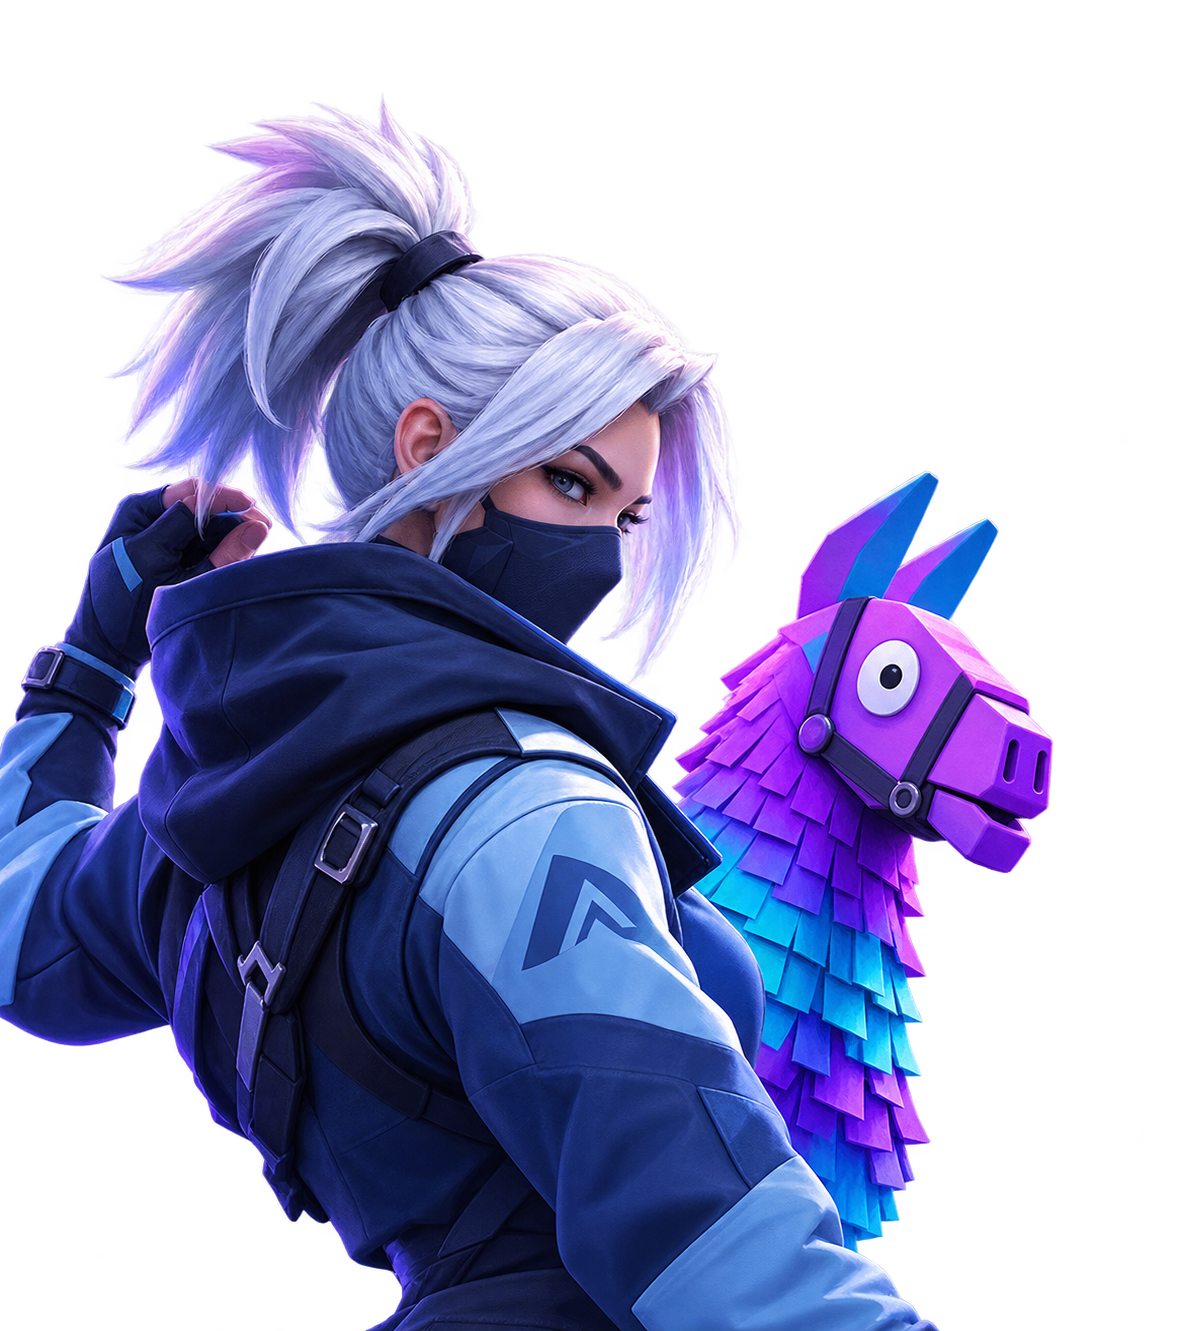
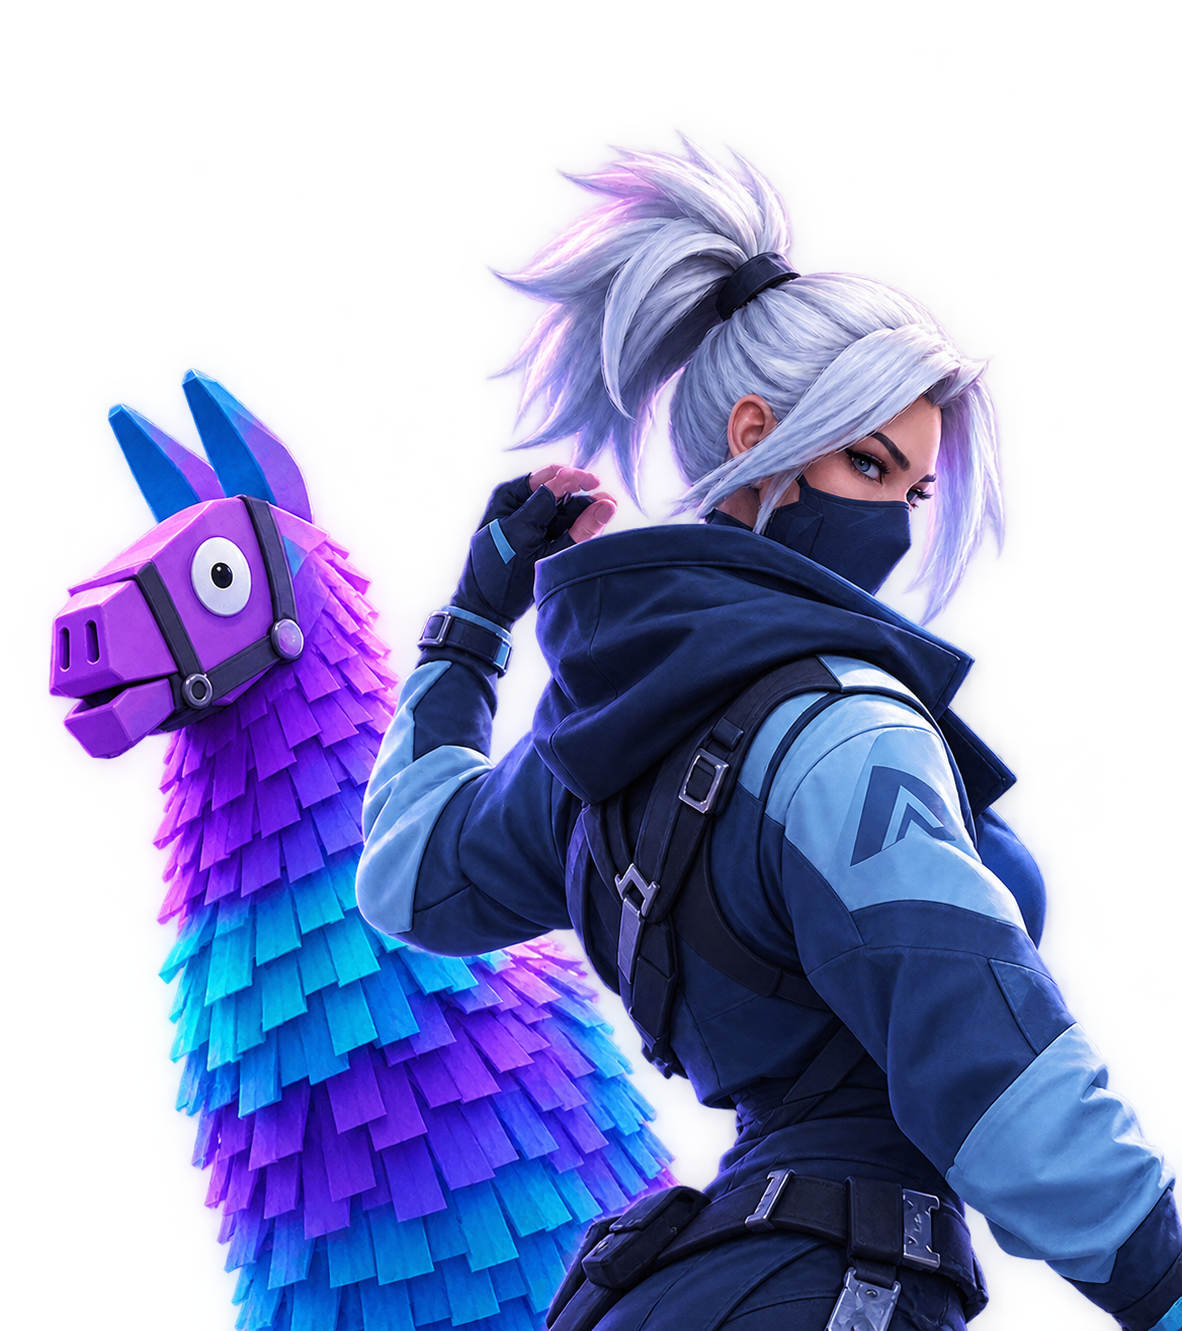
login page update

diff --git a/titan-auth-corner-panel.html b/titan-auth-corner-panel.html
@@ -1,0 +1,191 @@
+<!DOCTYPE html>
+<html lang="fa" dir="rtl">
+<head>
+<meta charset="UTF-8">
+<meta name="viewport" content="width=device-width, initial-scale=1">
+<title>Auth Corner Panel — Titan</title>
+<link rel="preconnect" href="https://fonts.googleapis.com">
+<link rel="preconnect" href="https://fonts.gstatic.com" crossorigin>
+<link href="https://fonts.googleapis.com/css2?family=Vazirmatn:wght@400;500;600;700;800&display=swap" rel="stylesheet">
+<style>
+/* =========================================================================
+   AUTH CORNER PANEL — the actual top-left floating panel (avatar + one icon
+   below it), not the wide header strip from the earlier file. That panel is
+   only ~76px wide, so a text button doesn't fit — the fix here is icon-only
+   with the same hover-tooltip pattern the rest of the nav already uses.
+   - To integrate: replace the current always-on avatar markup with the
+     #cornerGuest / #cornerUser blocks below, toggled by your real auth
+     check (the visible toggle here is for comparison only).
+   ========================================================================= */
+:root{
+  --panel:#3f1119; --panel-2:#4a1620; --panel-3:#2c0d15;
+  --red:#e2453f; --red-2:#f0645a; --cream:#fff0b3;
+  --text:#fdf1f0; --muted:#d99ba0; --muted-2:#a86068; --green:#3ddc84;
+  --ease-out:cubic-bezier(.2,.8,.2,1); --spring:cubic-bezier(.3,1.6,.5,1);
+}
+*{box-sizing:border-box;margin:0;padding:0}
+body{
+  font-family:'Vazirmatn',system-ui,sans-serif;color:var(--text);min-height:100vh;
+  padding:60px 24px 140px;background:linear-gradient(160deg,#65232d 0%,#571c26 55%,#4d1720 100%);
+}
+button{font:inherit;color:inherit;border:0;background:none;cursor:pointer}
+i[data-icon]{display:inline-grid;place-items:center;width:1em;height:1em;font-style:normal;flex:none}
+i[data-icon] svg{width:100%;height:100%}
+
+.demo-wrap{max-width:900px;margin:0 auto}
+.demo-note{font-size:13px;color:var(--muted);line-height:1.9;margin-bottom:24px;max-width:62ch}
+.demo-note b{color:#fff}
+.demo-toggle{display:flex;gap:6px;background:var(--panel-3);padding:5px;border-radius:999px;width:fit-content;margin-bottom:26px}
+.demo-toggle button{height:38px;padding:0 18px;border-radius:999px;font-size:12.5px;font-weight:600;color:var(--muted);transition:background .25s,color .25s}
+.demo-toggle button.active{background:var(--red);color:#fff}
+
+/* a strip of fake page behind the panel, just so the floating panel has
+   something to sit in front of, like it does on the real page */
+.stage{position:relative;background:var(--panel-3);border-radius:28px;height:260px;padding:20px}
+
+/* ---------- the actual floating corner panel ---------- */
+.corner-panel{
+  position:absolute;top:20px;right:20px;width:76px;background:var(--panel);border-radius:26px;
+  padding:14px 0;display:flex;flex-direction:column;align-items:center;gap:12px;
+  box-shadow:0 16px 34px -14px rgba(0,0,0,.5);
+}
+
+/* guest: icon-only button, same family as the other rail icons, with the
+   same hover-tooltip pattern already used elsewhere in the nav */
+.rail-icon-btn{
+  position:relative;width:48px;height:48px;border-radius:16px;display:grid;place-items:center;
+  color:#e6a3a5;font-size:20px;transition:color .25s,transform .35s var(--spring),background .25s;
+}
+.rail-icon-btn:hover{color:#fff;background:rgba(255,255,255,.06);transform:scale(1.06)}
+.rail-icon-btn.cta{color:#fff;background:linear-gradient(135deg,var(--red),var(--red-2));box-shadow:0 10px 22px -8px rgba(226,69,63,.6)}
+.rail-icon-btn::before{
+  content:attr(data-label);position:absolute;right:calc(100% + 12px);top:50%;transform:translate(6px,-50%);
+  white-space:nowrap;pointer-events:none;background:#2a0a11;color:#fff;font-size:12px;padding:6px 11px;border-radius:10px;
+  opacity:0;transition:opacity .2s,transform .25s var(--ease-out);z-index:30;box-shadow:0 10px 24px rgba(0,0,0,.35);
+}
+.rail-icon-btn:hover::before{opacity:1;transform:translate(0,-50%)}
+
+/* logged-in: avatar + crown + online dot, opens a dropdown */
+.acct{position:relative}
+.acct-frame{position:relative;width:52px;height:52px;display:grid;place-items:center;transition:transform .35s var(--spring)}
+.acct-frame:hover{transform:scale(1.06)}
+.acct-frame svg:first-of-type{position:absolute;inset:0;width:100%;height:100%;overflow:visible}
+.acct-crown{position:absolute;left:50%;top:-1px;width:38%;transform:translate(-50%,-56%);z-index:2;overflow:visible}
+.acct-glow{position:absolute;inset:8%;border-radius:50%;z-index:0;pointer-events:none;background:radial-gradient(circle,rgba(255,205,90,.55),transparent 72%);animation:acctGlow 2.8s ease-in-out infinite}
+@keyframes acctGlow{0%,100%{opacity:.5;transform:scale(1)}50%{opacity:.9;transform:scale(1.1)}}
+.acct-av{position:relative;z-index:1;width:40px;height:40px;border-radius:50%;overflow:hidden}
+.acct-av svg{width:100%;height:100%}
+.acct-online{position:absolute;bottom:1px;left:1px;z-index:3;width:13px;height:13px;border-radius:50%;background:var(--green);box-shadow:0 0 0 3px var(--panel)}
+.acct-online::after{content:"";position:absolute;inset:0;border-radius:50%;background:var(--green);animation:ping 2s ease-out infinite}
+@keyframes ping{0%{transform:scale(1);opacity:.7}100%{transform:scale(2.4);opacity:0}}
+
+/* the panel sits at the left edge, so the menu must open toward the page
+   (left:0, not right:0) or it would spill off-screen */
+.acct-menu{
+  position:absolute;top:0;right:calc(100% + 12px);width:230px;background:var(--panel-2);border-radius:18px;padding:8px;
+  box-shadow:0 24px 50px rgba(0,0,0,.5);opacity:0;pointer-events:none;transform:translateX(8px);
+  transition:opacity .25s,transform .3s var(--ease-out);z-index:30;
+}
+.acct.open .acct-menu{opacity:1;pointer-events:auto;transform:none}
+.acct-menu-head{display:flex;align-items:center;gap:10px;padding:10px 10px 12px;border-bottom:1px solid rgba(255,255,255,.08);margin-bottom:6px}
+.acct-menu-head .av{width:36px;height:36px;border-radius:50%;overflow:hidden;flex:none}
+.acct-menu-head .av svg{width:100%;height:100%}
+.acct-menu-head b{display:block;font-size:13px}
+.acct-menu-head span{font-size:10.5px;color:var(--muted-2)}
+.menu-item{display:flex;align-items:center;gap:10px;width:100%;padding:10px 10px;border-radius:12px;font-size:12.5px;font-weight:500;transition:background .2s}
+.menu-item:hover{background:rgba(255,255,255,.06)}
+.menu-item i{font-size:15px;color:var(--cream)}
+.menu-item.danger{color:#ff8f87}
+.menu-item.danger i{color:#ff6a60}
+</style>
+</head>
+<body>
+
+<div class="demo-wrap">
+  <p class="demo-note">
+    این همون پنل باریک بالا-چپ خودِ صفحه است (فقط آواتار + یک آیکن زیرش) — نه اون نوار پهنی که بار قبل نشون دادم. چون جا برای متن نیست، برای <b>مهمان</b> فقط یه آیکون ورود با tooltip (مثل بقیهی آیکونهای همین پنل) گذاشتم؛ برای <b>کاربر وارد شده</b> همون آواتار و تاج قبلی مونده، بهعلاوهی نقطهی آنلاین، و منو هم بهجای چپ، سمت راست پنل باز میشه چون اینجا دیگه لبهی صفحه نیست.
+  </p>
+
+  <div class="demo-toggle" id="demoToggle">
+    <button class="active" data-s="guest">حالت مهمان</button>
+    <button data-s="user">حالت وارد شده</button>
+  </div>
+
+  <div class="stage">
+    <div class="corner-panel">
+      <div id="cornerGuest">
+        <button class="rail-icon-btn cta" data-label="ورود یا ثبتنام"><i data-icon="login"></i></button>
+      </div>
+
+      <div id="cornerUser" style="display:none">
+        <div class="acct" id="acct">
+          <button class="acct-frame" id="acctBtn">
+            <span class="acct-glow"></span>
+            <svg viewBox="0 0 100 100">
+              <defs><linearGradient id="goldG" x1="0" y1="0" x2="1" y2="1"><stop offset="0" stop-color="#ffe07a"/><stop offset="1" stop-color="#c9932c"/></linearGradient></defs>
+              <circle cx="50" cy="50" r="46" fill="none" stroke="url(#goldG)" stroke-width="5"/>
+            </svg>
+            <svg class="acct-crown" viewBox="0 -2 26 30" fill="url(#goldG)" stroke="rgba(0,0,0,.35)" stroke-width=".6"><path d="M1 18l2-9 6 4.5L13 3l4 10.5 6-4.5 2 9z"/></svg>
+            <span class="acct-av" id="acctAv"></span>
+            <span class="acct-online"></span>
+          </button>
+
+          <div class="acct-menu" id="acctMenu">
+            <div class="acct-menu-head"><span class="av" id="menuAv"></span><div><b>طاها</b><span>رنک: Gold</span></div></div>
+            <button class="menu-item"><i data-icon="user"></i>مشاهده پروفایل</button>
+            <button class="menu-item"><i data-icon="wallet"></i>کیف پول و تراکنشها</button>
+            <button class="menu-item"><i data-icon="settings"></i>تنظیمات حساب</button>
+            <button class="menu-item danger"><i data-icon="logout"></i>خروج از حساب</button>
+          </div>
+        </div>
+        <button class="rail-icon-btn" data-label="دوستان" style="margin-top:6px"><i data-icon="users"></i></button>
+      </div>
+    </div>
+  </div>
+</div>
+
+<script>
+(() => {
+'use strict';
+const $ = (s, r = document) => r.querySelector(s);
+const $$ = (s, r = document) => Array.from(r.querySelectorAll(s));
+
+const I = {
+  login:['<path d="M10 17l5-5-5-5M3 12h12M14 4h4a2 2 0 0 1 2 2v12a2 2 0 0 1-2 2h-4"/>'],
+  users:['<circle cx="9" cy="8.5" r="3.2"/><path d="M3 20a6 6 0 0 1 12 0"/><circle cx="17" cy="9.5" r="2.5"/><path d="M17 14.5a4.5 4.5 0 0 1 4.5 4.5"/>'],
+  user:['<circle cx="12" cy="8" r="3.6"/><path d="M5 20a7 7 0 0 1 14 0"/>'],
+  wallet:['<rect x="3" y="6" width="18" height="13" rx="2.5"/><path d="M3 10h18M16 14.5h2"/>'],
+  settings:['<circle cx="12" cy="12" r="3"/><path d="M19.4 13.5a1.7 1.7 0 0 0 .3 1.9l.1.1a2 2 0 1 1-2.9 2.9l-.1-.1a1.7 1.7 0 0 0-1.9-.3 1.7 1.7 0 0 0-1 1.5V20a2 2 0 1 1-4 0v-.2a1.7 1.7 0 0 0-1-1.6 1.7 1.7 0 0 0-1.9.3l-.1.1a2 2 0 1 1-2.9-2.9l.1-.1a1.7 1.7 0 0 0 .3-1.9 1.7 1.7 0 0 0-1.5-1H4a2 2 0 1 1 0-4h.2a1.7 1.7 0 0 0 1.5-1 1.7 1.7 0 0 0-.3-1.9l-.1-.1a2 2 0 1 1 2.9-2.9l.1.1a1.7 1.7 0 0 0 1.9.3H10a1.7 1.7 0 0 0 1-1.5V4a2 2 0 1 1 4 0v.2a1.7 1.7 0 0 0 1 1.5 1.7 1.7 0 0 0 1.9-.3l.1-.1a2 2 0 1 1 2.9 2.9l-.1.1a1.7 1.7 0 0 0-.3 1.9V10a1.7 1.7 0 0 0 1.5 1H20a2 2 0 1 1 0 4h-.2a1.7 1.7 0 0 0-1.5 1z"/>'],
+  logout:['<path d="M9 7V5a2 2 0 0 1 2-2h7a2 2 0 0 1 2 2v14a2 2 0 0 1-2 2h-7a2 2 0 0 1-2-2v-2M14 12H3m0 0 3.5-3.5M3 12l3.5 3.5"/>']
+};
+const ico = k => `<svg viewBox="0 0 24 24" fill="none" stroke="currentColor" stroke-width="1.8" stroke-linecap="round" stroke-linejoin="round">${I[k][0]}</svg>`;
+const paint = (root=document) => $$('[data-icon]',root).forEach(el => { if(!el.childElementCount) el.innerHTML = ico(el.dataset.icon); });
+
+function avatar(seed){
+  const bgs=[['#ffcf8a','#ff8a5c'],['#9be8b0','#37b57a'],['#a5c6ff','#6272f2']];
+  const s=Math.abs(seed|0), bg=bgs[s%bgs.length];
+  return `<svg viewBox="0 0 40 40"><defs><linearGradient id="avg${seed}" x1="0" y1="0" x2="1" y2="1"><stop offset="0" stop-color="${bg[0]}"/><stop offset="1" stop-color="${bg[1]}"/></linearGradient></defs><rect width="40" height="40" fill="url(#avg${seed})"/><circle cx="20" cy="20" r="8.6" fill="#f4cfa8"/><path d="M11 17.5c1-5 4.5-7 9-7s8 2 9 7c-3-2.5-6-3-9-3s-6 .5-9 3z" fill="#2b1b17"/></svg>`;
+}
+$('#acctAv').innerHTML = avatar(5);
+$('#menuAv').innerHTML = avatar(5);
+paint();
+
+const acct = $('#acct');
+$('#acctBtn').addEventListener('click', e => { e.stopPropagation(); acct.classList.toggle('open'); });
+document.addEventListener('click', e => { if (!acct.contains(e.target)) acct.classList.remove('open'); });
+
+$('#demoToggle').addEventListener('click', e => {
+  const b = e.target.closest('button'); if (!b) return;
+  $$('#demoToggle button').forEach(x => x.classList.remove('active'));
+  b.classList.add('active');
+  const isUser = b.dataset.s === 'user';
+  $('#cornerGuest').style.display = isUser ? 'none' : 'block';
+  $('#cornerUser').style.display = isUser ? 'flex' : 'none';
+  $('#cornerUser').style.flexDirection = 'column';
+  $('#cornerUser').style.alignItems = 'center';
+  acct.classList.remove('open');
+});
+})();
+</script>
+</body>
+</html>

diff --git a/src/app/login/login.module.css b/src/app/login/login.module.css
@@ -48,18 +48,12 @@
   z-index: 0;
   pointer-events: none;
   filter: drop-shadow(0 20px 60px rgba(100, 60, 200, 0.35));
-  animation: characterFloat 6s ease-in-out infinite;
-}
-
-@keyframes characterFloat {
-  0%, 100% { transform: translateX(-50%) translateY(0); }
-  50% { transform: translateX(-50%) translateY(-12px); }
 }
 
 /* ─── Login Card ─── */
 .card {
   width: min(420px, 100%);
-  padding: 40px 36px;
+  padding: 28px 32px;
   border-radius: 32px;
   background: linear-gradient(160deg, rgb(30, 30, 35), rgb(15, 15, 20));
   border: 1px solid rgba(255, 255, 255, 0.08);
@@ -156,7 +150,7 @@
 .logo {
   width: 64px;
   height: 64px;
-  margin: 0 auto 24px;
+  margin: 0 auto 16px;
   display: grid;
   place-items: center;
   border-radius: 20px;
@@ -187,14 +181,14 @@
   color: rgba(255, 255, 255, 0.5);
   font-size: 14px;
   line-height: 1.7;
-  margin-bottom: 32px;
+  margin-bottom: 20px;
 }
 
 .field {
   display: flex;
   flex-direction: column;
-  gap: 10px;
-  margin-bottom: 24px;
+  gap: 8px;
+  margin-bottom: 16px;
 }
 
 .field label {
@@ -206,7 +200,7 @@
 
 .input {
   width: 100%;
-  padding: 16px 20px;
+  padding: 14px 20px;
   border-radius: 16px;
   border: 1px solid rgba(255, 255, 255, 0.08);
   background: rgba(0, 0, 0, 0.3);
@@ -253,7 +247,7 @@
 
 .primary {
   width: 100%;
-  padding: 16px;
+  padding: 14px;
   border: none;
   border-radius: 16px;
   background: linear-gradient(135deg, var(--red), #b92b27);
@@ -267,7 +261,7 @@
   display: flex;
   align-items: center;
   justify-content: center;
-  min-height: 56px;
+  min-height: 52px;
 }
 
 .primary:disabled {

diff --git a/src/app/login/page.tsx b/src/app/login/page.tsx
@@ -136,27 +136,18 @@ function LoginForm() {
           ))}
         </div>
         {/* Character peeking from behind the card */}
-        <motion.div
-          initial={{ opacity: 0, y: 60, scale: 0.85 }}
-          animate={{ opacity: 1, y: 0, scale: 1 }}
-          transition={{
-            delay: 0.3,
-            duration: 0.9,
-            type: 'spring',
-            stiffness: 80,
-            damping: 16,
-          }}
-        >
+        <div>
           <Image
             className={styles.characterBehind}
-            src="/images/character-behind-login-form.png"
+            src="/images/character-behind-login-v2.png"
             alt="Gaming character"
             width={340}
             height={400}
             priority
             draggable={false}
+            style={{ height: 'auto' }}
           />
-        </motion.div>
+        </div>
 
         {/* Login card (on top of character) */}
         <motion.form 
